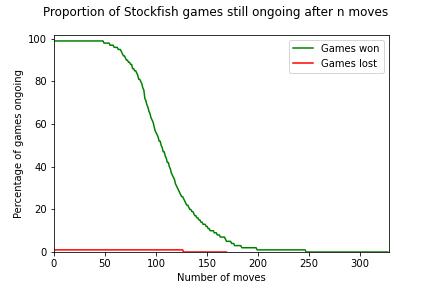
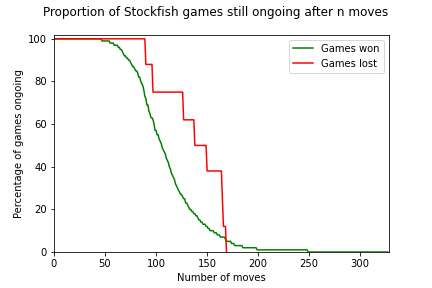
Fikset småfeilen i wordhandler

diff --git a/WordHandler.py b/WordHandler.py
@@ -264,7 +264,8 @@ class WordHandler:
     # Create a graph of the results of the games played by Stockfish
     def createSFResultGraph(self):
         longestGameCount = int(self.getGames()[0].getPlyCount())
-        wonGames = lostGames = []
+        wonGames = []
+        lostGames = []
         longestWonGameCount = longestLostGameCount = 0
 
         for game in self.getGames():
